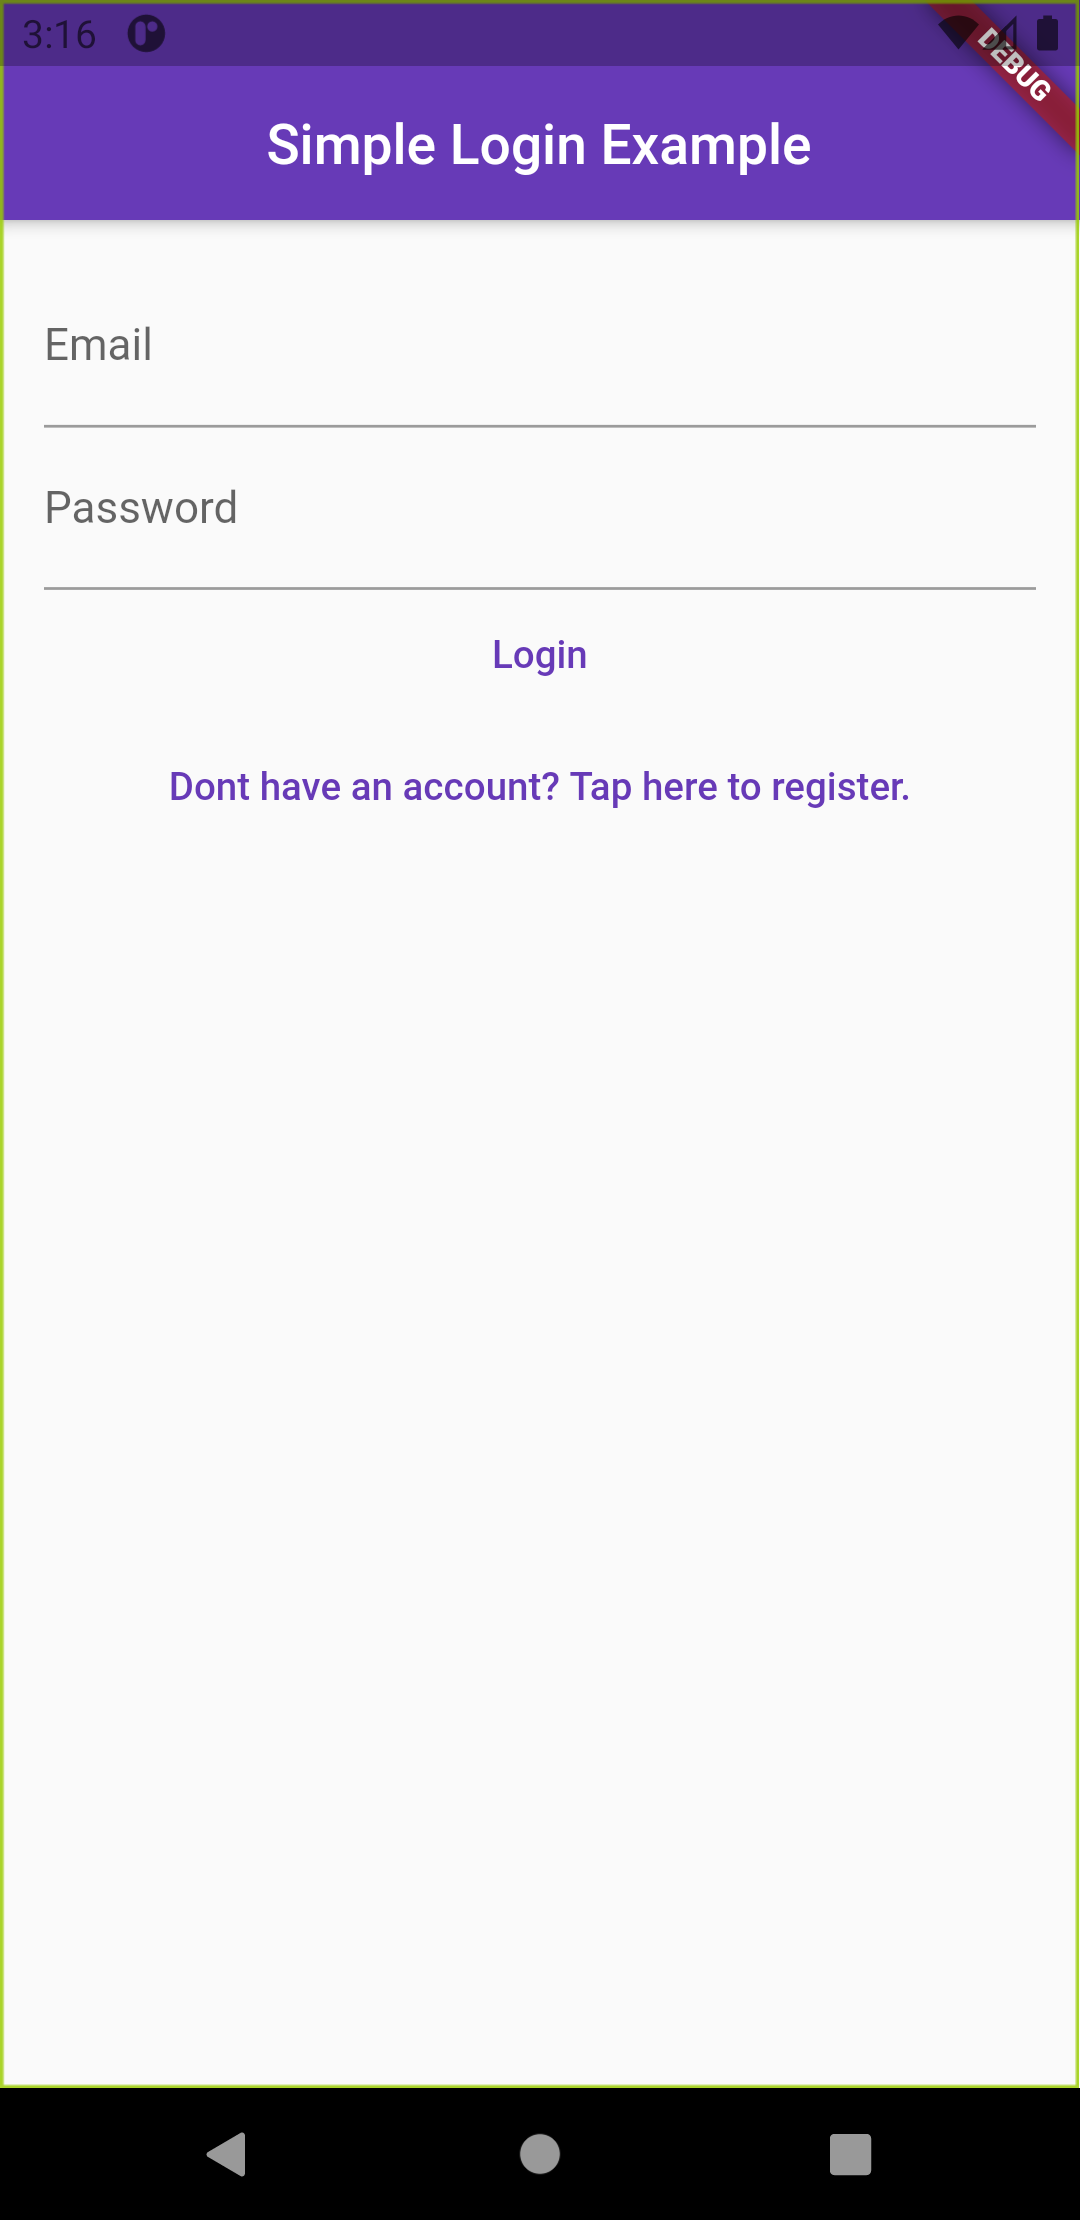
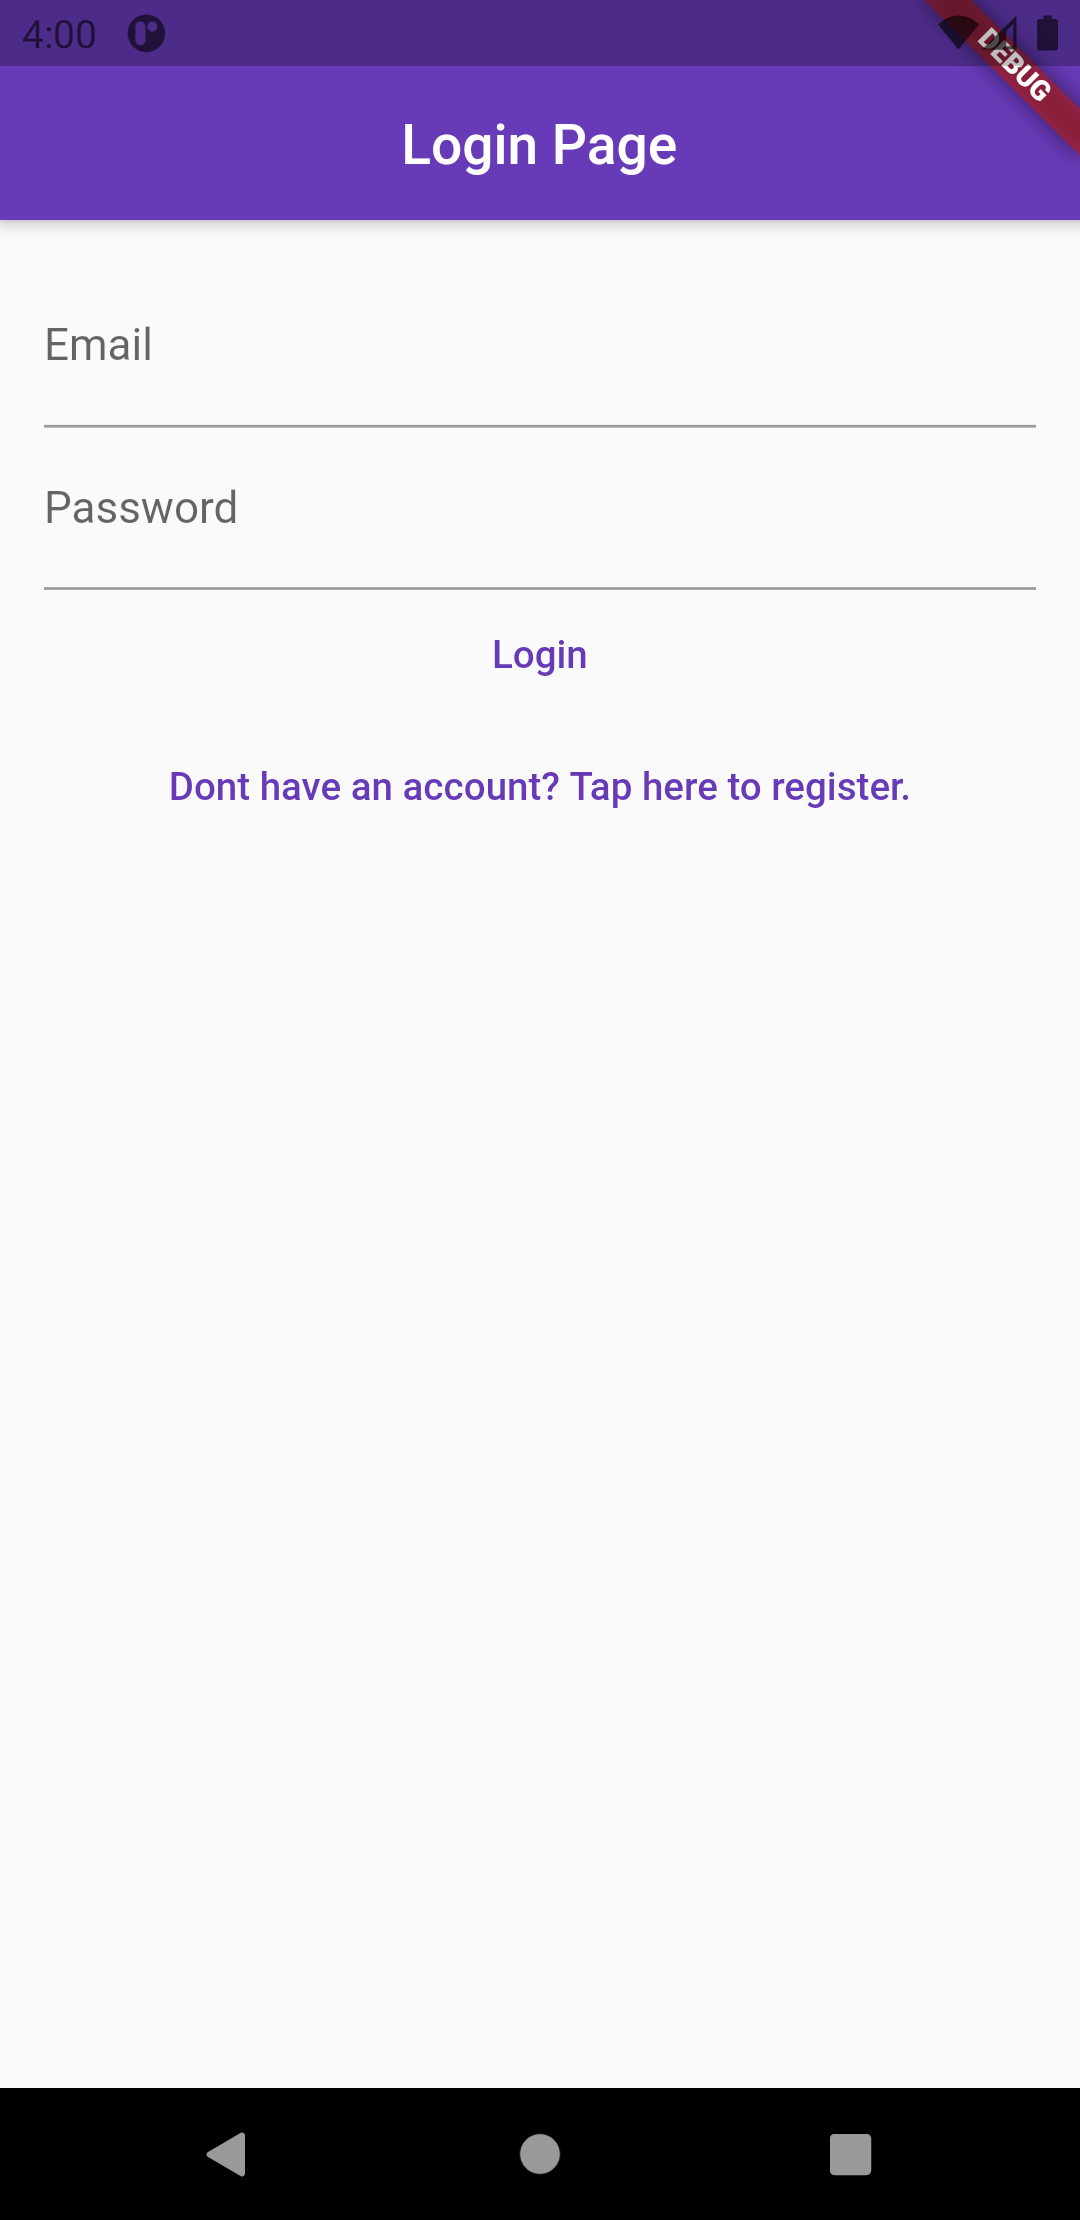
update screenshots

Changed region(s): [[0.0, 0.0, 0.0917, 0.9324], [0.9778, 0.0, 1.0, 0.9324], [0.2444, 0.0311, 0.7639, 0.0932]]

diff --git a/lib/screens/loginPage.dart b/lib/screens/loginPage.dart
@@ -71,7 +71,7 @@ class _LoginPageState extends State<LoginPage> {
 
   Widget _buildBar(BuildContext context) {
     return new AppBar(
-      title: new Text("Simple Login Example"),
+      title: new Text("Login Page"),
       centerTitle: true,
     );
   }
